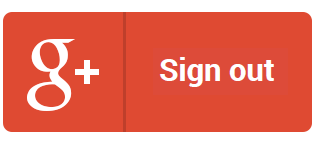
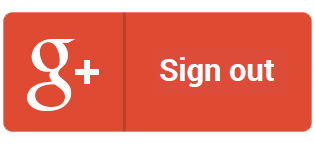
reporting bike function progress?

Changed region(s): [[0.0, 0.0816, 1.0, 0.898]]

diff --git a/javascript/brb.js b/javascript/brb.js
@@ -87,7 +87,7 @@ function handleAuthClick() {
     $('.user-email').css('display', 'none');
     $('.bike-add').css('display', 'none');
     $('.stolen-bike-add').css('display', 'none');
-    $("#sign-in-or-out-button").attr("src", "./assets/images/googleplus.png");
+    $("#sign-in-or-out-button").attr("src", "./assets/images/googleplus.png").css("width", "103%");
 
     GoogleAuth.signOut();
   } else {
@@ -123,7 +123,7 @@ function setSigninStatus(isSignedIn) {
     // $('#auth-status').html('You are currently signed in and have granted ' +
     //     'access to this app.');
   } else {
-    $('#sign-in-or-out-button').attr("src", "./assets/images/googleplus.png");
+    $('#sign-in-or-out-button').attr("src", "./assets/images/googleplus.png").css("width", "63%");
     $('#revoke-access-button').css('display', 'none');
     // $('#auth-status').html('You have not authorized this app or you are ' +
     //     'signed out.');
@@ -285,7 +285,8 @@ $("#bike-bandit").on("click", function () {
   $(".stolenBike").css("visibility", "visible"); 
 
   var usersRef = database.ref().child("users");
-  usersRef.child(userId).on("value", function (childSnapshot) {
+  var userIdRef = usersRef.child(userId);
+  userIdRef.on("value", function (childSnapshot) {
     console.log(childSnapshot);
     for (let i = 0; i < childSnapshot.length; i++) {
 
